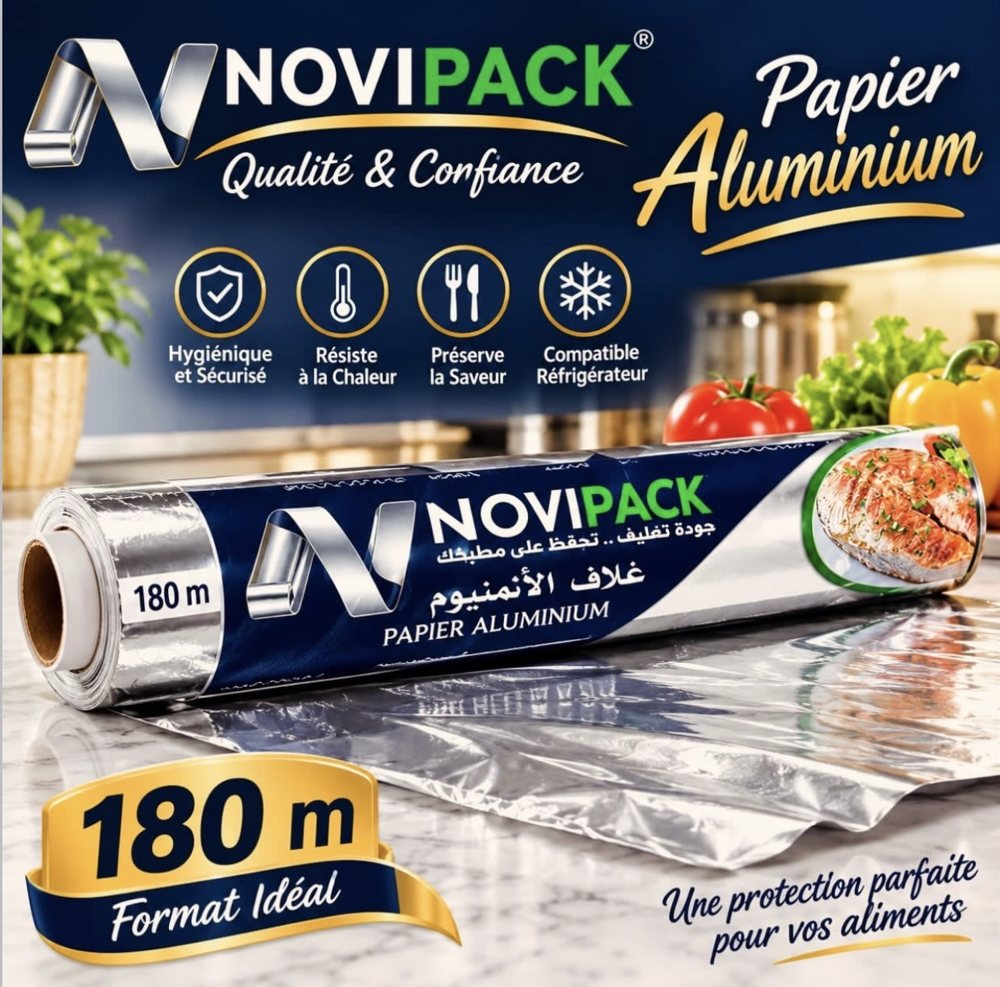
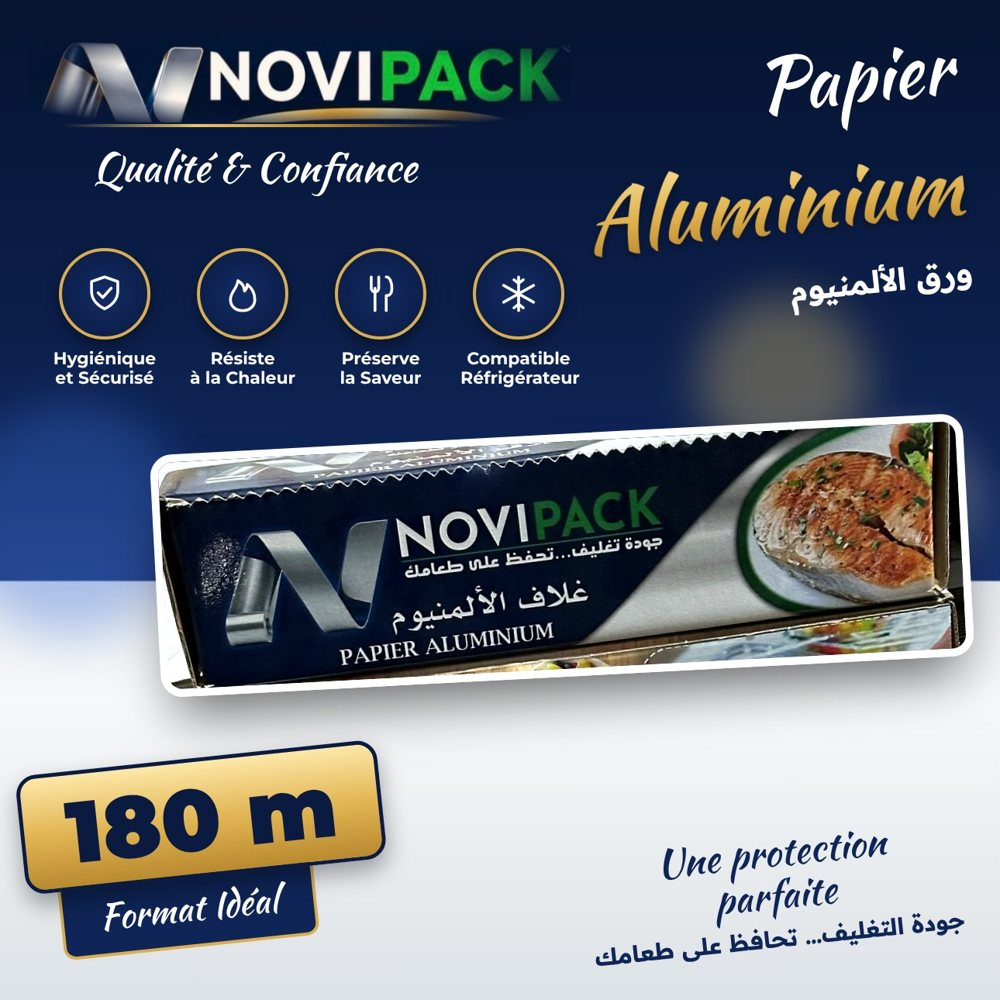
Corrected aluminium promo; napkins marked coming soon
Claude-Session: https://claude.ai/code/session_01ShhzoKCBW5v4JK2QP22fgH

diff --git a/novipack-site/body.html b/novipack-site/body.html
@@ -72,6 +72,10 @@ section{padding-block:64px}
 .price{display:flex;justify-content:space-between;align-items:center;gap:12px;flex-wrap:wrap;border-top:1px solid var(--line);padding-top:14px}
 .price b{font-size:1.15rem;font-variant-numeric:tabular-nums}
 .price .btn{padding:.6em 1.2em;font-size:.95rem}
+.prod{position:relative}
+.soon-tag{position:absolute;top:14px;right:14px;z-index:2;background:#F0B429;color:#16285A;font-weight:700;padding:6px 16px;border-radius:999px;box-shadow:0 6px 14px rgba(0,0,0,.2)}
+.prod.soon img{filter:saturate(.75) brightness(.92)}
+.soon-note{color:var(--muted);font-size:.92rem}
 
 /* why */
 .why{display:grid;grid-template-columns:repeat(4,minmax(0,1fr));gap:20px}
@@ -159,7 +163,7 @@ footer{background:var(--navy-d);color:#C9D1E3;padding-block:36px;font-size:.92re
   <section class="hero">
     <div class="wrap hero-grid">
       <div class="hero-copy">
-        <span class="eyebrow" style="color:var(--green-l)">ورق الألمنيوم · الغلاف الشفاف · مناديل المائدة</span>
+        <span class="eyebrow" style="color:var(--green-l)">ورق الألمنيوم · الغلاف الشفاف · مناديل المائدة قريباً</span>
         <h1>جودة التغليف… <span>تحافظ على طعامك</span></h1>
         <p>مواد تغليف غذائية من NOVIPACK للدار، المطاعم، المخابز والمحلات. لفائف قوية ما تتقطعش، والطول اللي مكتوب على العلبة هو الطول اللي تاخذو.</p>
         <div class="hero-cta">
@@ -252,7 +256,7 @@ footer{background:var(--navy-d);color:#C9D1E3;padding-block:36px;font-size:.92re
       <div class="sec-head"><span class="eyebrow">أسئلة متكررة</span><h2>عندك سؤال؟</h2></div>
       <details><summary>واش نقدر نستعمل ورق الألمنيوم في الفرن؟</summary><p>نعم، ورق الألمنيوم يتحمل حرارة الفرن والشواء. ما تستعملوش في الميكرو-أوند (micro-ondes).</p></details>
       <details><summary>الغلاف الشفاف يصلح للثلاجة؟</summary><p>نعم، يغطي الصحون ويحفظ الخضر والعجين والأكل في الثلاجة. ما تحطوش في الفرن.</p></details>
-      <details><summary>واش هي مقاسات المناديل؟</summary><p>مناديل المائدة Novi مقاسها 28 × 28 سم مفتوحة، بطبقتين (2 plis)، ومنقوشة باش تمتص أكثر.</p></details>
+      <details><summary>واش هي مقاسات المناديل؟</summary><p>مناديل المائدة Novi متوفرة قريباً. مقاسها 28 × 28 سم مفتوحة، بطبقتين (2 plis)، ومنقوشة باش تمتص أكثر.</p></details>
       <details><summary>كيفاش نطلب؟</summary><p>املأ الاستمارة في هذه الصفحة واضغط «أرسل الطلبية عبر واتساب»، ولا راسلنا مباشرة على واتساب.</p></details>
       <details><summary>تبيعو بالجملة؟</summary><p>نعم، عندنا أسعار خاصة للمحلات والمطاعم وتجار الجملة حسب الكمية. اختر «محل / مطعم / تاجر» في الاستمارة.</p></details>
     </div>
@@ -281,7 +285,7 @@ const PRODUCTS = [
   { id:"film", name:"الغلاف الشفاف 200 م", lat:"Film étirable 200 m", img:"images/film-promo.jpg",
     uses:["تغطية الصحون","الخضر والفواكه","العجين","المطاعم"], price:0 },
   { id:"napkin", name:"مناديل المائدة Novi", lat:"Serviettes 28×28 cm", img:"images/napkins.jpg",
-    uses:["طبقتين 2 plis","المائدة","المطاعم","الاستعمال اليومي"], price:0 }
+    uses:["طبقتين 2 plis","المائدة","المطاعم","الاستعمال اليومي"], price:0, soon:true }
 ];
 /* ================================= */
 
@@ -290,17 +294,20 @@ const waLink = text => `https://wa.me/${CONFIG.whatsapp}?text=${encodeURICompone
 const fmt = p => p > 0 ? `${p.toLocaleString("fr-DZ")} دج` : "السعر عند الطلب";
 
 $("#product-list").innerHTML = PRODUCTS.map(p => `
-  <article class="prod">
+  <article class="prod${p.soon ? " soon" : ""}">
+    ${p.soon ? `<span class="soon-tag">قريباً</span>` : ""}
     <img src="${p.img}" alt="${p.name}" loading="lazy" width="1000" height="1000">
     <div class="prod-body">
       <div class="prod-title"><h3>${p.name}</h3><span class="lat">${p.lat}</span></div>
       <ul class="uses">${p.uses.map(u => `<li>${u}</li>`).join("")}</ul>
-      <div class="price"><b>${fmt(p.price)}</b><a class="btn btn-green" href="#order" data-product="${p.id}">اطلب</a></div>
+      ${p.soon
+        ? `<div class="price"><b>قريباً</b><span class="soon-note">يتوفر قريباً، تابعنا على صفحتنا</span></div>`
+        : `<div class="price"><b>${fmt(p.price)}</b><a class="btn btn-green" href="#order" data-product="${p.id}">اطلب</a></div>`}
     </div>
   </article>`).join("");
 
-$("#f-product").innerHTML = PRODUCTS.map(p => `<option value="${p.id}">${p.name}</option>`).join("")
-  + `<option value="both">مجموعة (ألمنيوم + غلاف + مناديل)</option>`;
+$("#f-product").innerHTML = PRODUCTS.filter(p => !p.soon).map(p => `<option value="${p.id}">${p.name}</option>`).join("")
+  + `<option value="both">الزوج (ألمنيوم + غلاف)</option>`;
 $("#phone-text").textContent = CONFIG.phoneDisplay;
 $("#year").textContent = new Date().getFullYear();
 

diff --git a/novipack-site/index.html b/novipack-site/index.html
@@ -74,6 +74,10 @@ section{padding-block:64px}
 .price{display:flex;justify-content:space-between;align-items:center;gap:12px;flex-wrap:wrap;border-top:1px solid var(--line);padding-top:14px}
 .price b{font-size:1.15rem;font-variant-numeric:tabular-nums}
 .price .btn{padding:.6em 1.2em;font-size:.95rem}
+.prod{position:relative}
+.soon-tag{position:absolute;top:14px;right:14px;z-index:2;background:#F0B429;color:#16285A;font-weight:700;padding:6px 16px;border-radius:999px;box-shadow:0 6px 14px rgba(0,0,0,.2)}
+.prod.soon img{filter:saturate(.75) brightness(.92)}
+.soon-note{color:var(--muted);font-size:.92rem}
 
 /* why */
 .why{display:grid;grid-template-columns:repeat(4,minmax(0,1fr));gap:20px}
@@ -162,7 +166,7 @@ footer{background:var(--navy-d);color:#C9D1E3;padding-block:36px;font-size:.92re
   <section class="hero">
     <div class="wrap hero-grid">
       <div class="hero-copy">
-        <span class="eyebrow" style="color:var(--green-l)">ورق الألمنيوم · الغلاف الشفاف · مناديل المائدة</span>
+        <span class="eyebrow" style="color:var(--green-l)">ورق الألمنيوم · الغلاف الشفاف · مناديل المائدة قريباً</span>
         <h1>جودة التغليف… <span>تحافظ على طعامك</span></h1>
         <p>مواد تغليف غذائية من NOVIPACK للدار، المطاعم، المخابز والمحلات. لفائف قوية ما تتقطعش، والطول اللي مكتوب على العلبة هو الطول اللي تاخذو.</p>
         <div class="hero-cta">
@@ -255,7 +259,7 @@ footer{background:var(--navy-d);color:#C9D1E3;padding-block:36px;font-size:.92re
       <div class="sec-head"><span class="eyebrow">أسئلة متكررة</span><h2>عندك سؤال؟</h2></div>
       <details><summary>واش نقدر نستعمل ورق الألمنيوم في الفرن؟</summary><p>نعم، ورق الألمنيوم يتحمل حرارة الفرن والشواء. ما تستعملوش في الميكرو-أوند (micro-ondes).</p></details>
       <details><summary>الغلاف الشفاف يصلح للثلاجة؟</summary><p>نعم، يغطي الصحون ويحفظ الخضر والعجين والأكل في الثلاجة. ما تحطوش في الفرن.</p></details>
-      <details><summary>واش هي مقاسات المناديل؟</summary><p>مناديل المائدة Novi مقاسها 28 × 28 سم مفتوحة، بطبقتين (2 plis)، ومنقوشة باش تمتص أكثر.</p></details>
+      <details><summary>واش هي مقاسات المناديل؟</summary><p>مناديل المائدة Novi متوفرة قريباً. مقاسها 28 × 28 سم مفتوحة، بطبقتين (2 plis)، ومنقوشة باش تمتص أكثر.</p></details>
       <details><summary>كيفاش نطلب؟</summary><p>املأ الاستمارة في هذه الصفحة واضغط «أرسل الطلبية عبر واتساب»، ولا راسلنا مباشرة على واتساب.</p></details>
       <details><summary>تبيعو بالجملة؟</summary><p>نعم، عندنا أسعار خاصة للمحلات والمطاعم وتجار الجملة حسب الكمية. اختر «محل / مطعم / تاجر» في الاستمارة.</p></details>
     </div>
@@ -284,7 +288,7 @@ const PRODUCTS = [
   { id:"film", name:"الغلاف الشفاف 200 م", lat:"Film étirable 200 m", img:"images/film-promo.jpg",
     uses:["تغطية الصحون","الخضر والفواكه","العجين","المطاعم"], price:0 },
   { id:"napkin", name:"مناديل المائدة Novi", lat:"Serviettes 28×28 cm", img:"images/napkins.jpg",
-    uses:["طبقتين 2 plis","المائدة","المطاعم","الاستعمال اليومي"], price:0 }
+    uses:["طبقتين 2 plis","المائدة","المطاعم","الاستعمال اليومي"], price:0, soon:true }
 ];
 /* ================================= */
 
@@ -293,17 +297,20 @@ const waLink = text => `https://wa.me/${CONFIG.whatsapp}?text=${encodeURICompone
 const fmt = p => p > 0 ? `${p.toLocaleString("fr-DZ")} دج` : "السعر عند الطلب";
 
 $("#product-list").innerHTML = PRODUCTS.map(p => `
-  <article class="prod">
+  <article class="prod${p.soon ? " soon" : ""}">
+    ${p.soon ? `<span class="soon-tag">قريباً</span>` : ""}
     <img src="${p.img}" alt="${p.name}" loading="lazy" width="1000" height="1000">
     <div class="prod-body">
       <div class="prod-title"><h3>${p.name}</h3><span class="lat">${p.lat}</span></div>
       <ul class="uses">${p.uses.map(u => `<li>${u}</li>`).join("")}</ul>
-      <div class="price"><b>${fmt(p.price)}</b><a class="btn btn-green" href="#order" data-product="${p.id}">اطلب</a></div>
+      ${p.soon
+        ? `<div class="price"><b>قريباً</b><span class="soon-note">يتوفر قريباً، تابعنا على صفحتنا</span></div>`
+        : `<div class="price"><b>${fmt(p.price)}</b><a class="btn btn-green" href="#order" data-product="${p.id}">اطلب</a></div>`}
     </div>
   </article>`).join("");
 
-$("#f-product").innerHTML = PRODUCTS.map(p => `<option value="${p.id}">${p.name}</option>`).join("")
-  + `<option value="both">مجموعة (ألمنيوم + غلاف + مناديل)</option>`;
+$("#f-product").innerHTML = PRODUCTS.filter(p => !p.soon).map(p => `<option value="${p.id}">${p.name}</option>`).join("")
+  + `<option value="both">الزوج (ألمنيوم + غلاف)</option>`;
 $("#phone-text").textContent = CONFIG.phoneDisplay;
 $("#year").textContent = new Date().getFullYear();
 
